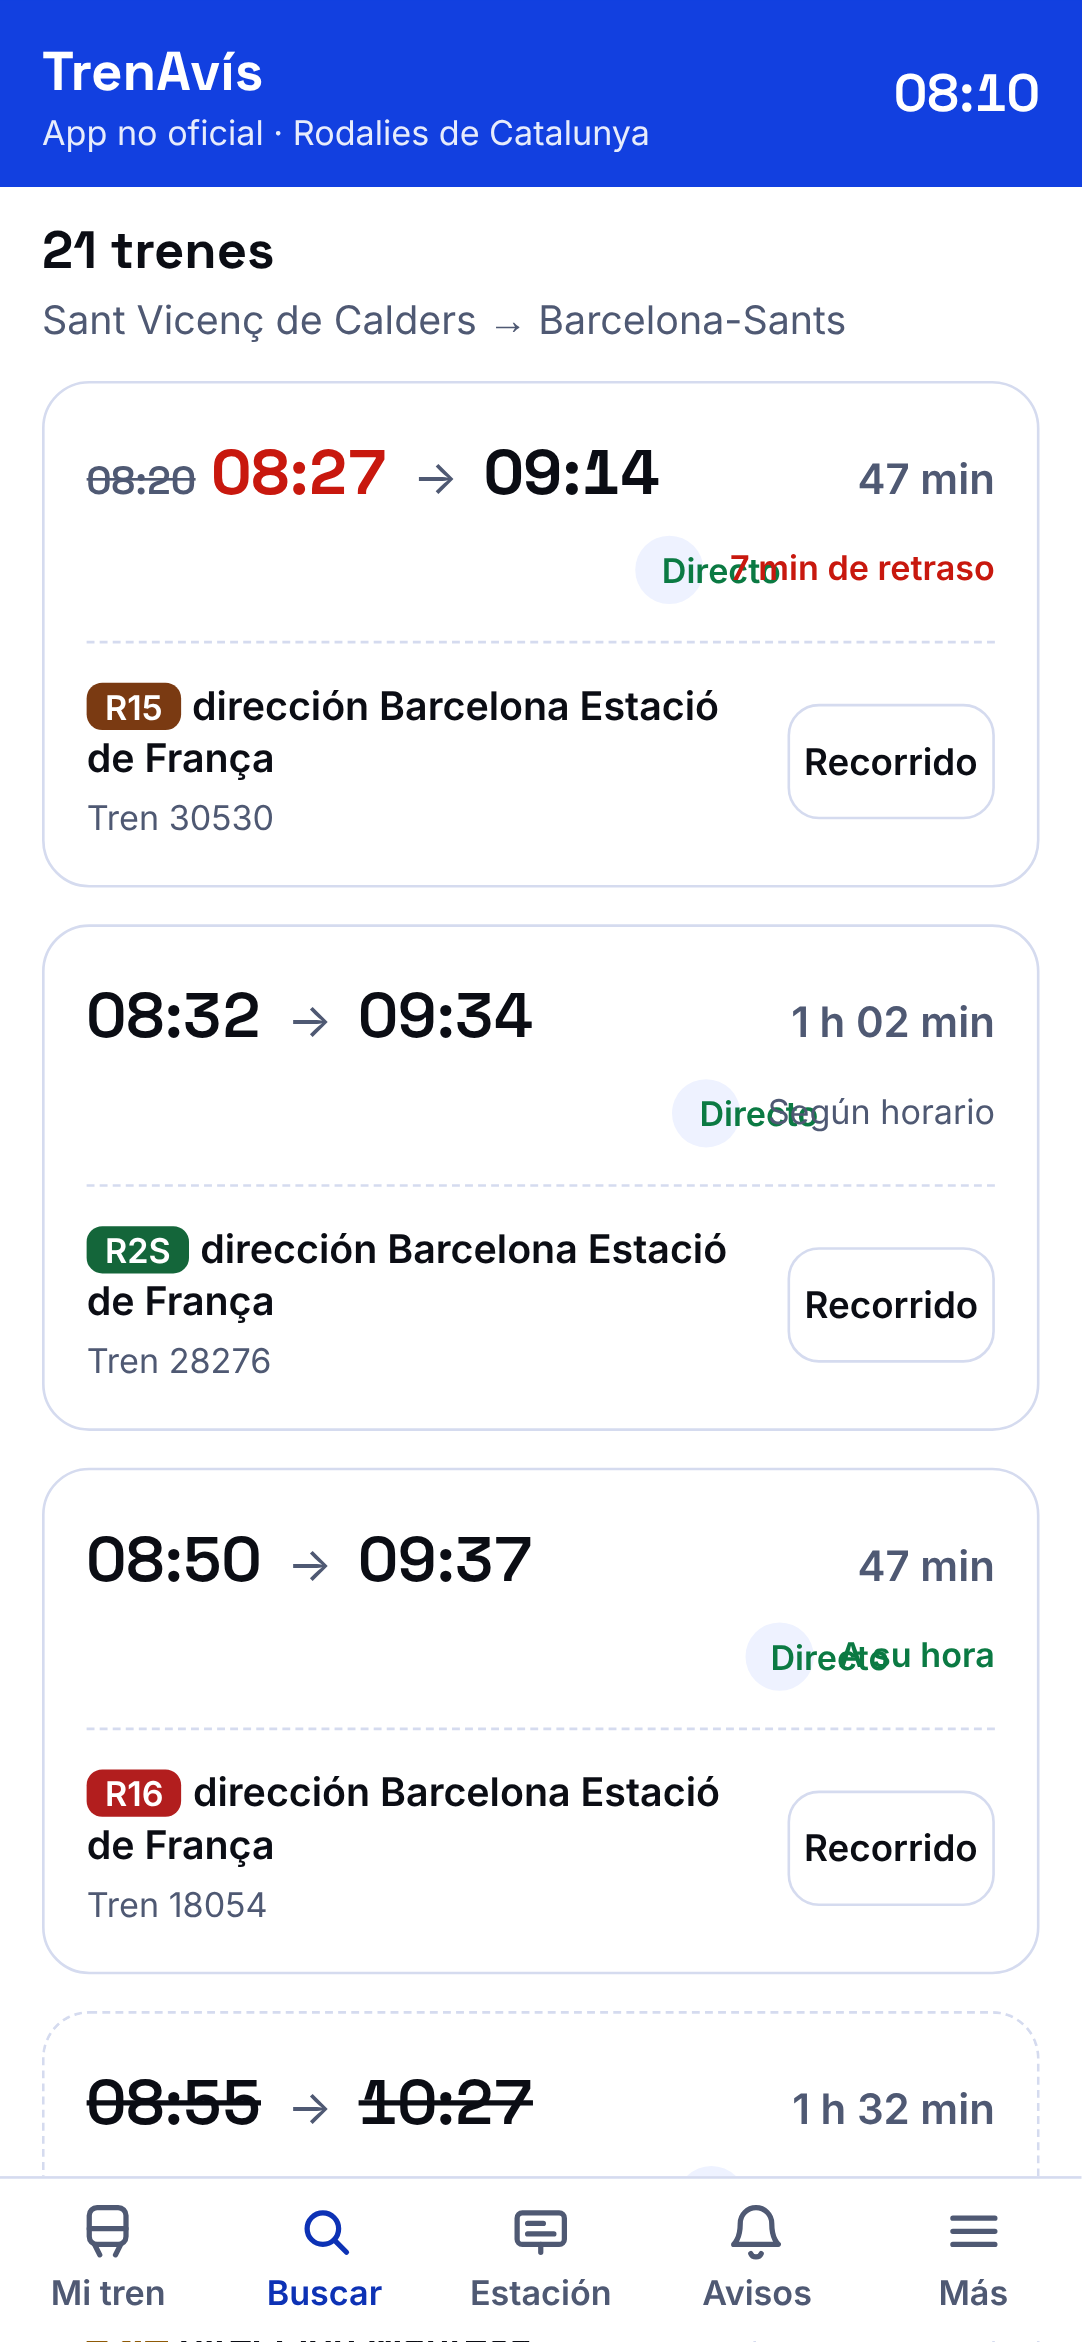
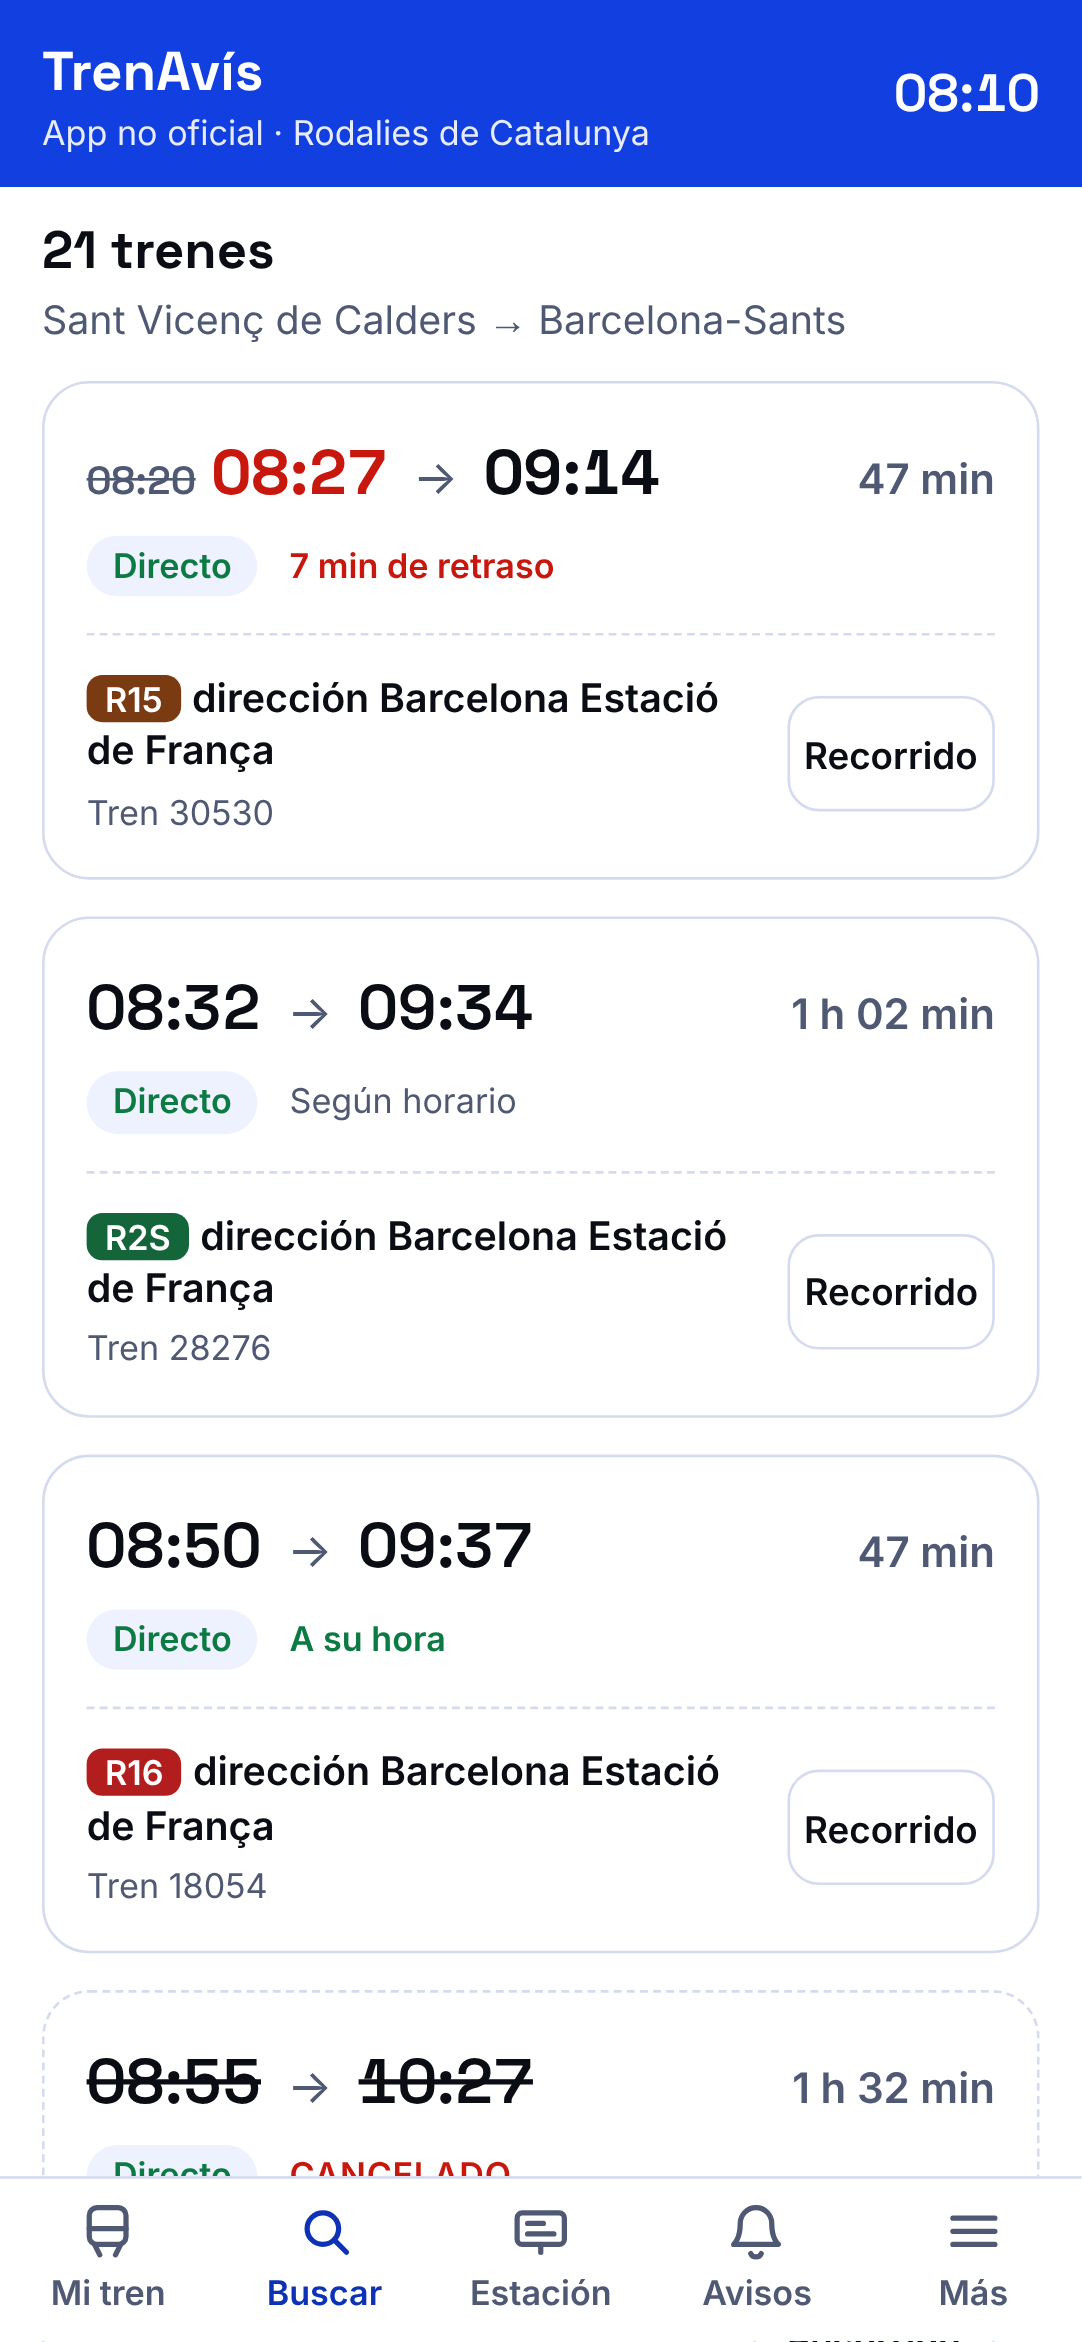
Arreglo de la etiqueta Directo (chocaba con el estilo de los días); se puede guardar un aviso aunque el próximo día no tenga horarios; material para Google Play; README con la app Android
Claude-Session: https://claude.ai/code/session_013s3rcQBLwWDXrbFNnCBKZy

diff --git a/web/src/styles.css b/web/src/styles.css
@@ -137,8 +137,8 @@ details.opts summary b{font-weight:500;color:var(--mut)}
 .res .dur{font-weight:600;color:var(--mut);white-space:nowrap}
 .res .meta{margin-top:6px}
 .tag{display:inline-block;font-size:.8125rem;font-weight:600;border-radius:999px;padding:2px 10px}
-.tag.d{background:var(--zone);color:var(--ok)}
-.tag.x{background:var(--zone);color:var(--co2)}
+.tag.tag-direct{background:var(--zone);color:var(--ok)}
+.tag.tag-xfer{background:var(--zone);color:var(--co2)}
 .leg{display:flex;justify-content:space-between;align-items:center;gap:12px;margin-top:14px;padding-top:14px;border-top:1px dashed var(--line);flex-wrap:nowrap}
 .legtxt{display:flex;flex-direction:column;gap:4px;font-size:.9375rem;line-height:1.35}
 .legtxt small{color:var(--mut);font-size:.8125rem}

diff --git a/web/src/views/SearchView.tsx b/web/src/views/SearchView.tsx
@@ -137,7 +137,7 @@ function JourneyCard({ j, sts, ds, risk, canceled, date, from, to, name, openTra
         <span className="dur">{duration(j.arr + ds[ds.length - 1] - j.dep - ds[0])}</span>
       </div>
       <div className="meta">
-        <span className={`tag ${j.transfers ? 'x' : 'd'}`}>{j.transfers ? t('search.transfer') : t('search.direct')}</span>
+        <span className={`tag ${j.transfers ? 'tag-xfer' : 'tag-direct'}`}>{j.transfers ? t('search.transfer') : t('search.direct')}</span>
         {sts.length === 1 && <StatusLabel s={sts[0]} long />}
       </div>
       {risk && <p className="warnline" role="note">⚠ {t('rt.risk')}</p>}

diff --git a/web/src/components/AlarmForm.tsx b/web/src/components/AlarmForm.tsx
@@ -32,7 +32,8 @@ export function AlarmForm({ initial, onSave, onCancel }: { initial: Alarm | null
 
   const problem = !from || !to ? t('alarms.pickStations') : from === to ? t('search.same') : time === null ? t('search.timeBad')
     : !days.length ? t('alarms.noDays') : null;
-  const canSave = !problem && !!next?.plan;
+  // Se puede guardar aunque el próximo día no tenga horarios publicados: el aviso vale para los demás días
+  const canSave = !problem && !!next;
   const toggleDay = (d: number) => setDays((l) => (l.includes(d) ? l.filter((x) => x !== d) : [...l, d]));
   const p = next?.plan;
 

diff --git a/store/PLAY_STORE.md b/store/PLAY_STORE.md
@@ -1,0 +1,87 @@
+# Publicar TrenAvís en Google Play
+
+Todo lo que pide Google, preparado. Quien abra la cuenta (mayor de 18) solo tiene que copiar y pegar.
+
+## 0. Antes de empezar
+- **Cuenta de desarrollador**: https://play.google.com/console → pago único de **25 $**. Cuenta *personal*.
+  Google pide verificar la identidad (documento) y un teléfono.
+- **Archivo de la app**: el `.aab` de la última versión en https://github.com/lorennsw/trenavis/releases
+- **Política de privacidad (URL)**: https://trenavis.lorennsw.workers.dev/legal/privacidad
+- Rellenar antes los datos del titular en `web/src/legal/config.ts` (aparecen en la política).
+
+## 1. Crear la app
+Play Console → **Crear aplicación**
+- Nombre: **TrenAvís – horarios de tren**
+- Idioma predeterminado: **Español (España)**
+- Aplicación o juego: **Aplicación** · Gratis o de pago: **Gratis**
+- Aceptar las declaraciones.
+
+## 2. Ficha de Play Store (Crecer → Presencia en Play Store → Ficha principal)
+**Nombre (30):** TrenAvís – horarios de tren
+
+**Descripción breve (80):**
+Horarios, trenes en directo y avisos para salir de casa a tiempo. No oficial.
+
+**Descripción completa:**
+```
+TrenAvís te ayuda a moverte en los trenes de Rodalies de Catalunya: horarios, salidas y llegadas, trenes en directo y avisos para salir de casa a tiempo.
+
+• Buscar trayectos: de una estación a otra, directos o con un transbordo, con la hora real y el retraso.
+• Panel de estación: salidas y llegadas como en el andén. Guarda tus estaciones favoritas y apunta tu vía habitual.
+• Mi tren: marca el tren que vas a coger y sigue su cuenta atrás, su posición y su retraso en directo.
+• Avisos de salida: dinos tu trayecto de siempre, a qué hora quieres llegar y cuánto tardas a pie. TrenAvís elige el mejor tren y te avisa de cuándo salir de casa, teniendo en cuenta el retraso real.
+• Notificaciones con la app cerrada: retrasos y cancelaciones del tren que sigues.
+• Línea en directo y mapa con los trenes que circulan, e incidencias de cada línea.
+• Funciona sin conexión con los últimos horarios descargados. Modo claro y oscuro.
+
+Sin registro, sin anuncios y sin compras. Tus datos se guardan en tu móvil.
+
+TrenAvís es una app NO OFICIAL, sin relación con Renfe, Adif ni la Generalitat de Catalunya. Datos: Renfe (data.renfe.com), licencia CC BY 4.0. La información puede contener errores o retrasos: comprueba siempre la información oficial.
+```
+**Recursos gráficos** (carpeta `store/`):
+- Icono 512×512: `web/public/icon-512.png`
+- Imagen destacada 1024×500: `store/imagen-destacada.png`
+- Capturas de teléfono (mínimo 2): `store/capturas/*.png`
+
+**Categoría:** Viajes y guías · **Etiquetas:** Transporte público, Trenes
+**Correo de contacto:** el del titular · **Sitio web:** https://trenavis.lorennsw.workers.dev
+
+## 3. Contenido de la aplicación (Política → Contenido de la aplicación)
+- **Política de privacidad:** la URL de arriba.
+- **Acceso a la aplicación:** todas las funciones están disponibles sin restricciones (no hay inicio de sesión).
+- **Anuncios:** No, la app no contiene anuncios.
+- **Clasificación de contenido:** categoría *Referencia, noticias o educación* (o *Utilidad*). Responder **No** a violencia,
+  sexualidad, lenguaje, drogas, apuestas, interacción entre usuarios y compras. Resultado esperado: **PEGI 3**.
+- **Público objetivo:** **13 años o más** (marcar 13-15, 16-17 y 18+). No está dirigida a niños.
+- **Apps de noticias:** No. **Apps gubernamentales:** No (y la app es no oficial).
+- **Funciones financieras / salud:** No.
+
+### Seguridad de los datos (formulario)
+- ¿Recopila o comparte datos de usuario? **Sí** (solo si se activan las notificaciones).
+- ¿Todos los datos se cifran en tránsito? **Sí**.
+- ¿Los usuarios pueden pedir que se eliminen? **Sí** (Más → Tus datos → Borrar todos mis datos, o desactivando las notificaciones).
+- Tipos de datos:
+  - **Identificadores del dispositivo u otros identificadores** (token de notificaciones de Firebase):
+    recopilado · no compartido · **opcional** · finalidad: **Funciones de la aplicación**.
+  - **Actividad en la aplicación → Otro contenido generado por el usuario** (estaciones, días y horas de los avisos de salida y
+    tren seguido, para enviar las notificaciones): recopilado · no compartido · **opcional** · finalidad: **Funciones de la aplicación**.
+- **Ubicación: NO** se recopila (si se usa «Estaciones cerca de mí», se calcula solo en el móvil y no se envía).
+- No hay datos personales (nombre, correo, teléfono), ni financieros, ni de salud, ni contactos, ni fotos.
+
+## 4. Prueba cerrada (obligatoria para cuentas personales nuevas)
+Google exige **al menos 12 personas probando durante 14 días seguidos** antes de publicar.
+1. Probar y publicar → **Pruebas → Prueba cerrada** → Crear canal → subir el `.aab`.
+2. **Testers:** crear una lista con los correos de Gmail de 12+ personas (familia, amigos) con Android.
+3. Enviarles el enlace de participación; tienen que **aceptar** e **instalar** la app desde ese enlace, y no desinstalarla en 14 días.
+4. Pasados los 14 días: **Solicitar acceso a producción** (responder unas preguntas sobre la prueba) → crear la versión de
+   producción con el mismo `.aab` (o uno más nuevo) → **Enviar a revisión**. La primera revisión suele tardar unos días.
+
+## 5. Firma de la app (importante)
+- Google Play usa **Firma de apps de Google Play**: al subir el primer `.aab`, Google guarda su propia clave para firmar la app.
+  Nuestra clave (guardada en Cloudflare) pasa a ser la **clave de subida**.
+- En Play Console → **Configuración → Integridad de la app**, copia la **huella SHA-256 del certificado de firma de la app** y
+  pásamela: la añado para que los enlaces de la web abran la app.
+
+## 6. Actualizaciones
+Cada cambio en `main` genera un `.aab` nuevo (con número de versión mayor) en Releases. En Play Console:
+Producción → **Crear nueva versión** → subir el `.aab` → Enviar a revisión.

diff --git a/README.md b/README.md
@@ -108,10 +108,29 @@ primera vez que se despliega. No hay que generarlos a mano.
 Edita `web/src/legal/config.ts` con el **nombre, documento, domicilio y correo** del titular (aparecen en el aviso legal y
 la política de privacidad). Ten en cuenta que el domicilio será público.
 
-### 8. Instalar la app en el móvil
+### 8. App de Android (independiente, con notificaciones por Firebase)
 
-- **Android (Chrome)**: abre la web → toca **"Instalar"** en el aviso de arriba (o en **Más → Notificaciones**).
-  Queda en el cajón de apps con su icono.
+La carpeta `android/` es la app de Android hecha con **Capacitor**: lleva la web dentro y no necesita Chrome.
+GitHub la compila sola (workflow "App Android") y publica el **APK** (instalar directamente) y el **AAB** (Google Play)
+en **Releases**. La firma se guarda en Cloudflare y es siempre la misma, así que cada versión se instala encima.
+
+Para que la app tenga notificaciones hace falta **Firebase** (gratis):
+1. https://console.firebase.google.com → Crear proyecto (sin Google Analytics).
+2. Añadir app **Android** con el paquete `io.github.lorennsw.trenavis` → descargar `google-services.json`.
+3. Configuración del proyecto → Cuentas de servicio → **Generar nueva clave privada** (archivo secreto).
+4. En GitHub → Settings → Secrets → Actions: `GOOGLE_SERVICES_JSON` (contenido de `google-services.json`) y
+   `FIREBASE_SERVICE_ACCOUNT` (contenido de la clave privada).
+5. Lanzar los workflows "Desplegar Worker…" (pasa la clave al servidor) y "App Android".
+
+Publicar en Google Play: guía completa en `store/PLAY_STORE.md` (textos, capturas, formularios y prueba cerrada).
+
+**iPhone**: sin cuenta de Apple Developer (99 $/año) no se puede instalar una app en iPhone fuera de la App Store.
+En iPhone se usa la web con «Añadir a pantalla de inicio» (con notificaciones, iOS 16.4+).
+
+### 9. Instalar la app en el móvil
+
+- **Android**: descarga el **APK** de la última versión en https://github.com/lorennsw/trenavis/releases y ábrelo
+  (permite «instalar apps de origen desconocido»). O desde Chrome, toca **«Instalar»** en la web.
 - **iPhone (Safari, iOS 16.4+)**: abre la web en Safari → **Compartir** → **Añadir a pantalla de inicio** → ábrela desde el icono.
   En iPhone las notificaciones **solo** funcionan así.
 - Después: **Más → Notificaciones** para activar las notificaciones.
@@ -122,6 +141,9 @@ la política de privacidad). Ten en cuenta que el domicilio será público.
 
 ```
 web/            App (React). core/ = lógica pura probada con tests (horarios, búsqueda, tiempo real, avisos)
+android/        App de Android (Capacitor). capacitor.config.ts = su configuración
+app-host/       Sirve la web en Cloudflare (trenavis.lorennsw.workers.dev)
+store/          Material y guía para Google Play
 worker/         API en Cloudflare Workers (datos, tiempo real, notificaciones push, cron)
 tools/          Scripts: conversión GTFS, informe de calidad, OSM, planificación de avisos, páginas legales
 shared/         Tipos compartidos entre web y Worker
@@ -153,6 +175,7 @@ docs/           Fases, informe de calidad de datos, solicitud a Adif, encargo or
 | typescript, tsx | Tipos y ejecutar scripts | Apache-2.0 / MIT |
 | vitest | Tests | MIT |
 | wrangler, @cloudflare/workers-types | Desplegar y probar el Worker | MIT / Apache-2.0 |
+| @capacitor/* | App de Android (visor, notificaciones, pantalla de inicio, barra de estado, botón atrás) | MIT |
 | axe-core | Revisión de accesibilidad (solo desarrollo) | MPL-2.0 |
 
 Sin analítica, sin publicidad y sin SDKs de terceros. Las notificaciones push se cifran sin librerías externas
